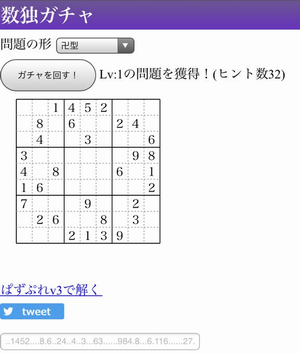
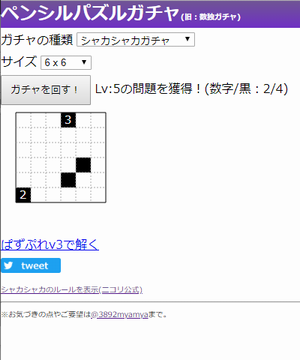
ペンシルパズルガチャに改題

Changed region(s): [[0.0, 0.0, 1.0, 1.0]]

diff --git a/index.html b/index.html
@@ -97,14 +97,14 @@
                 「<a href="https://chuniviewer.net/" target="_blank">Chuniviewer チュウニズムスコアツール</a>」のデータをもとに課題曲・武器曲等を表示してくれる非公式ツールです。SDVX 課題曲ジェネレータと同等の機能を搭載しています。
               </p>
 <br>
-              <h5>・<a href="https://myamyasdvx.herokuapp.com/yajilin.html" target="_blank">ペンシルパズルソルバー</h5><img src="penpa.png"></a>
+              <h5>・<a href="https://myamyasdvx.herokuapp.com/sudoku.html" target="_blank">ペンシルパズルガチャ</h5><img src="sudoku.png"></a>
               <p>
-                「<a href="http://pzv.jp/" target="_blank">ぱずぷれ v3</a>」さんや「<a href="http://puzsq.sakura.ne.jp/main/index.php" target="_blank">パズルスクエア</a>」さんで公開されているペンシルパズルを解くことができるかもしれないツールです。数独、ヤジリン、へやわけ等、20種類以上のパズルに対応しています。
+                自動生成されたペンシルパズルの問題がゲットできるガチャです。引いた問題はそのまま「<a href="http://pzv.jp/" target="_blank">ぱずぷれ v3</a>」さんで解いたり、Twitterでシェアすることが可能です。どんどんガチャを引いてパズルを楽しみましょう！
               </p>
 <br>
-              <h5>・<a href="https://myamyasdvx.herokuapp.com/sudoku.html" target="_blank">数独ガチャ</h5><img src="sudoku.png"></a>
+              <h5>・<a href="https://myamyasdvx.herokuapp.com/yajilin.html" target="_blank">ペンシルパズルソルバー</h5><img src="penpa.png"></a>
               <p>
-                自動生成された数独の問題がゲットできるガチャです。あなたはLv100以上の激レア数独をゲットできるか？引いた問題はそのままぱずぷれv3さんで解くことが可能です。
+                「ぱずぷれ v3」さんや「<a href="http://puzsq.sakura.ne.jp/main/index.php" target="_blank">パズルスクエア</a>」さんで公開されているペンシルパズルを解くことができるかもしれないツールです。数独、ヤジリン、へやわけ等、60種類以上のパズルに対応しています。
               </p>
 <br>
             <h3>その他</h3>
